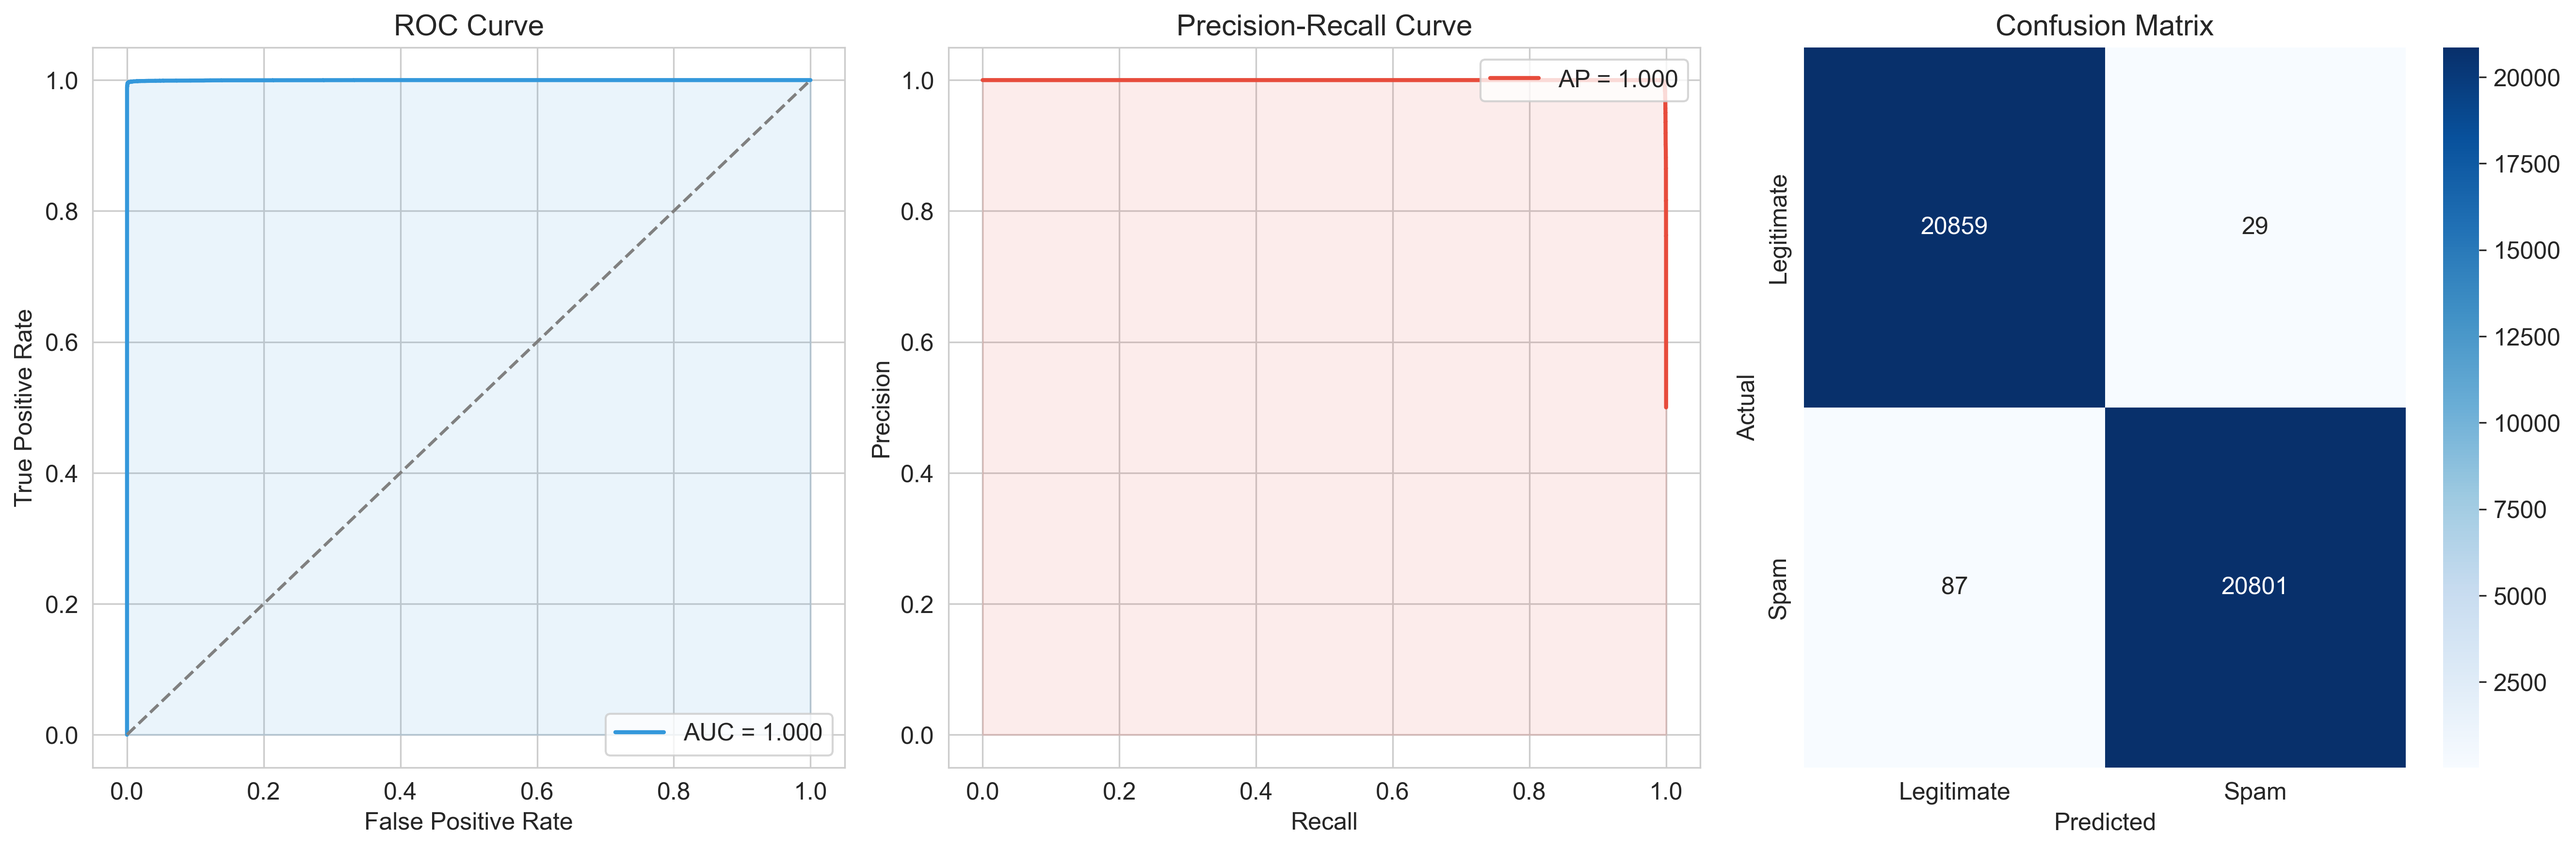
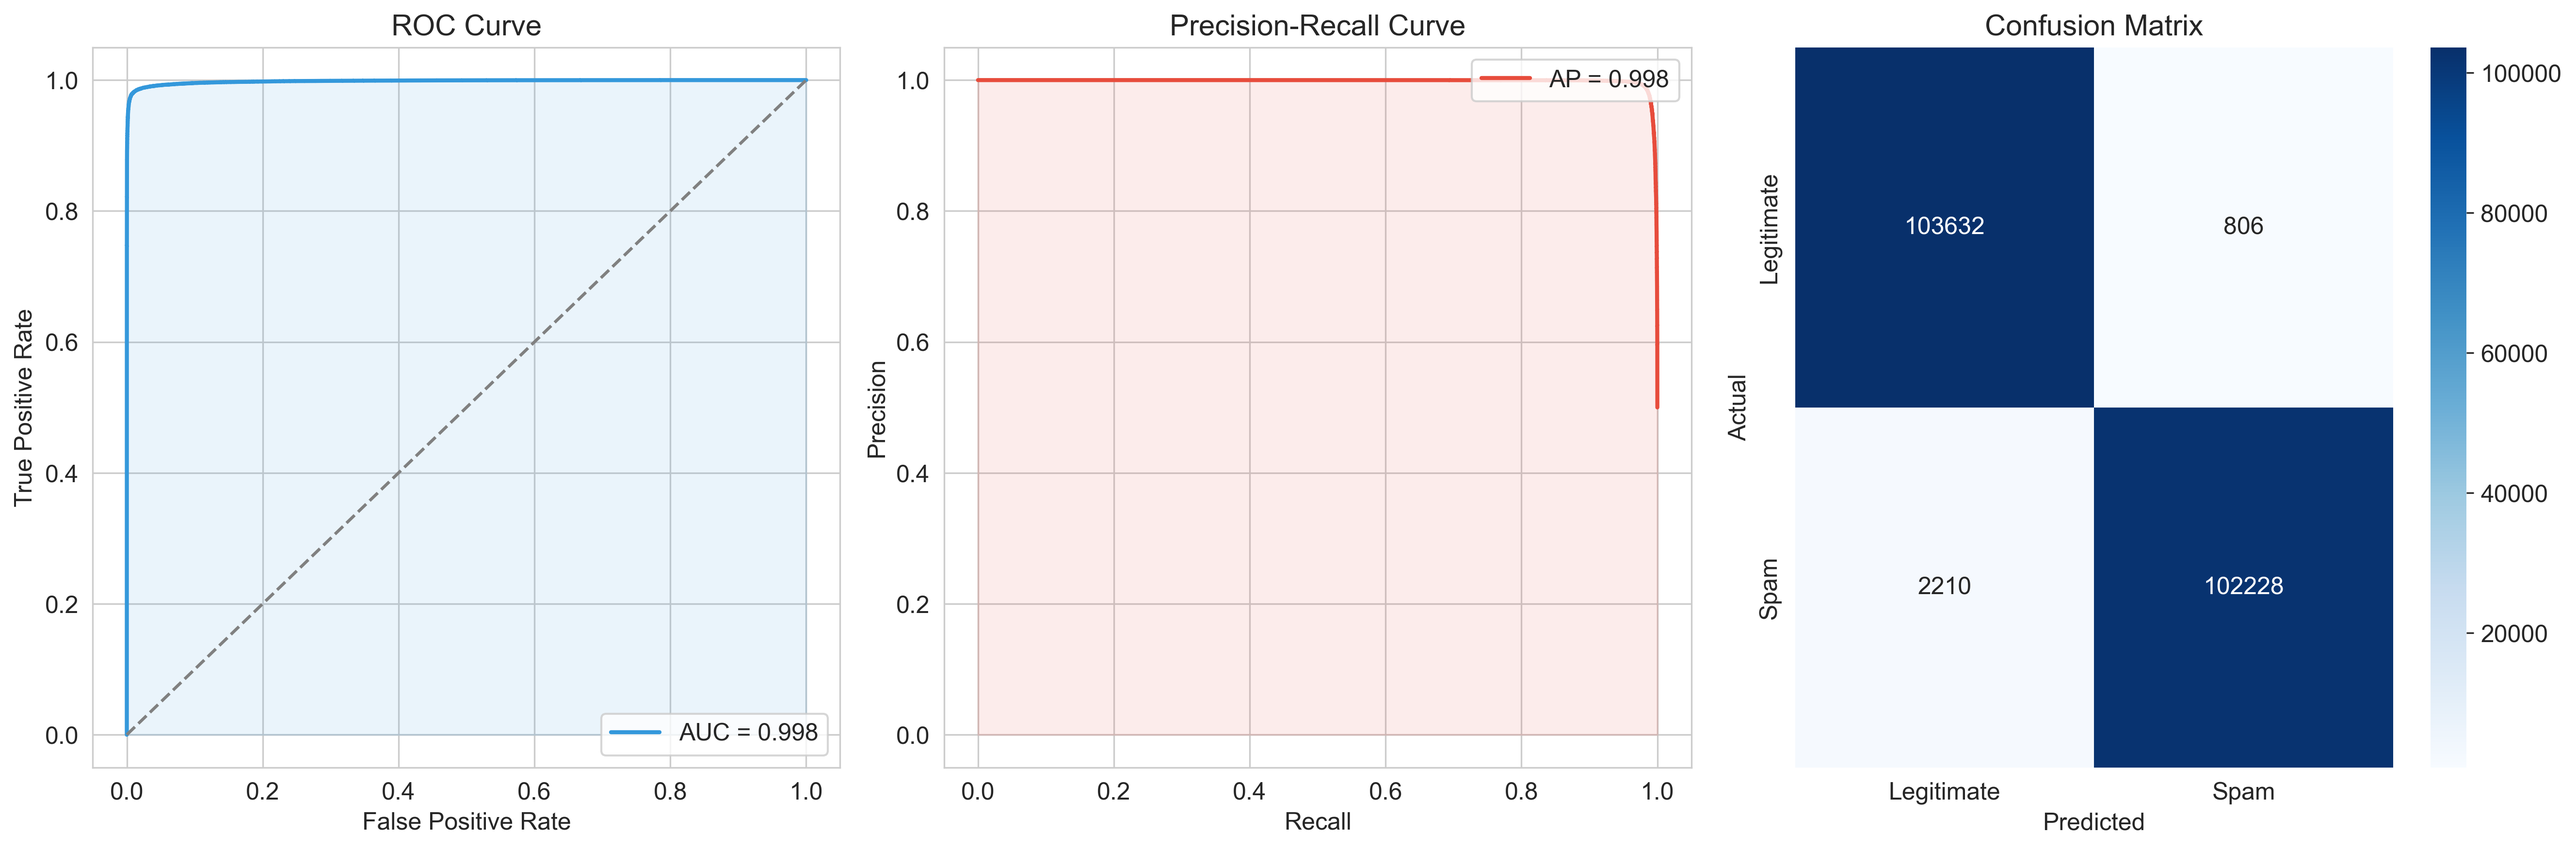
bop

diff --git a/models/url/train_url_model.py b/models/url/train_url_model.py
@@ -194,13 +194,8 @@ print(f"Average Precision: {np.mean(avg_precisions):.4f}\n")
 print("Classification Report (aggregated predictions):")
 print(classification_report(all_y_true, all_y_pred, target_names=['Legitimate', 'Spam']))
 
-# --- Train Final Model on Full Dataset ---
-print("\nTraining final model on full dataset...")
-full_train = lgb.Dataset(X, label=y)
-final_model = lgb.train(params, full_train, num_boost_round=300)
-
 # --- Save Model and Vectorizer ---
-joblib.dump(final_model, 'models/url/url_model.pkl')
+joblib.dump(model, 'models/url/url_model.pkl')
 joblib.dump(tfidf_vectorizer, 'models/url/url_vectorizer.pkl')
 
 print("\nModel and vectorizer saved!")
